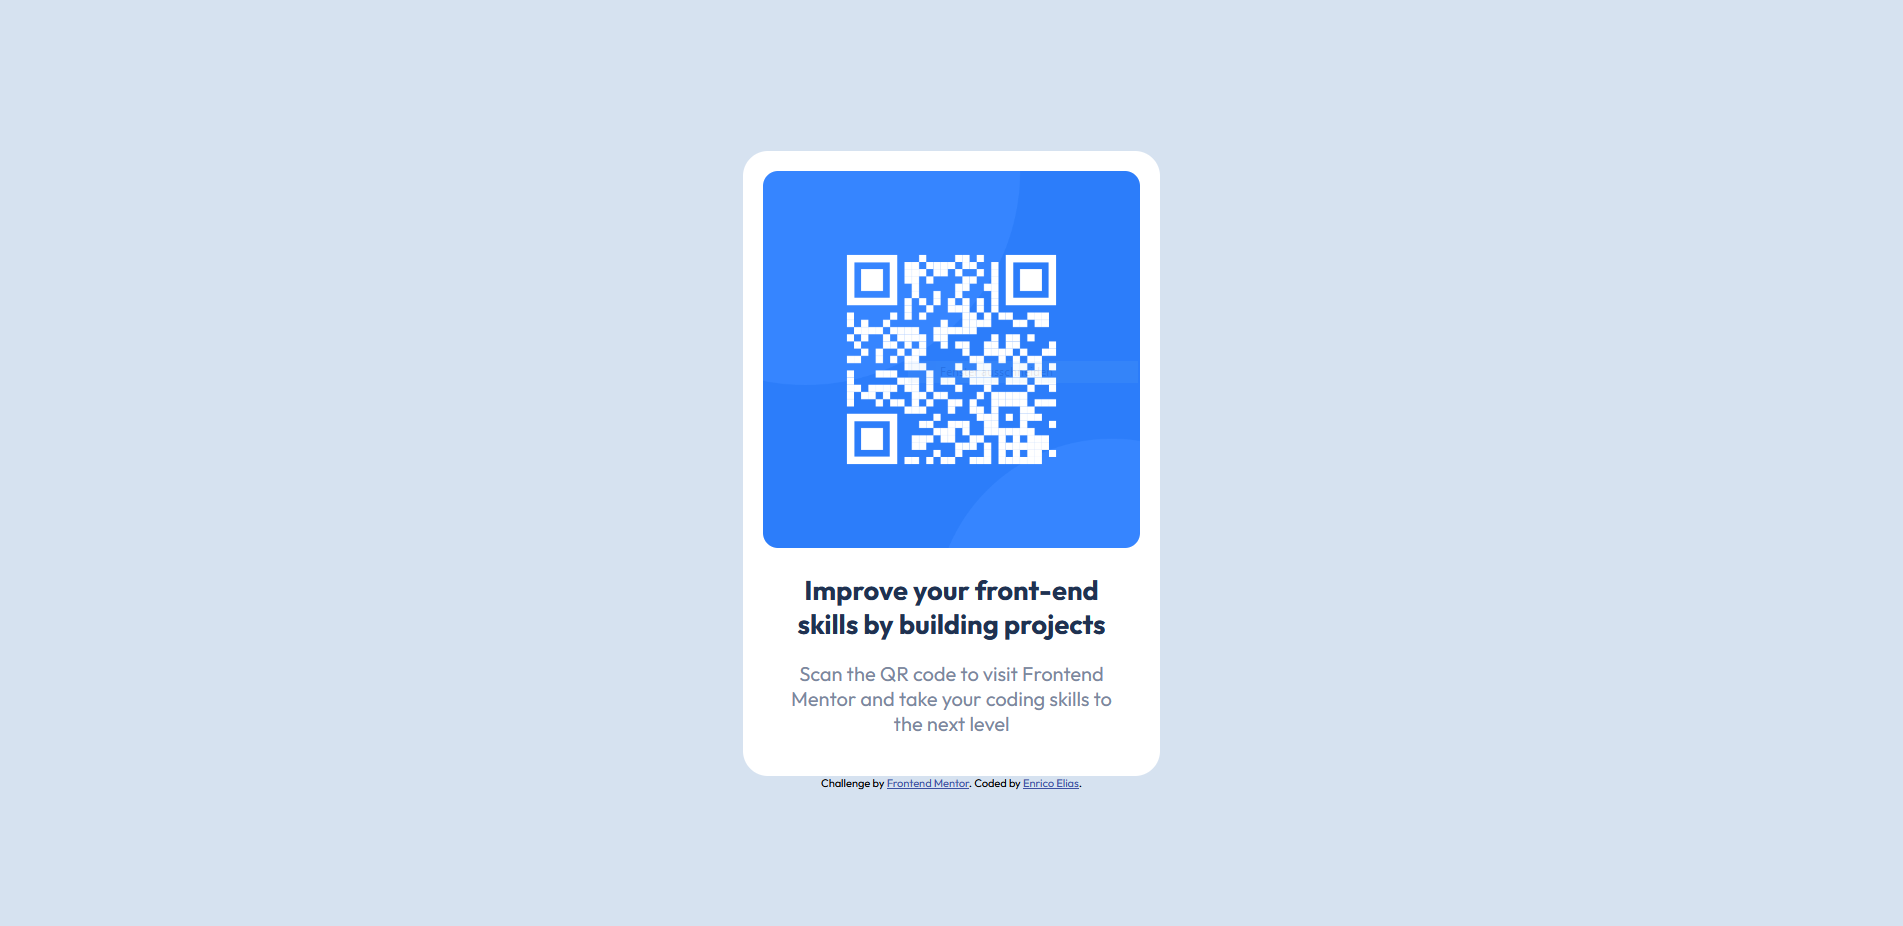
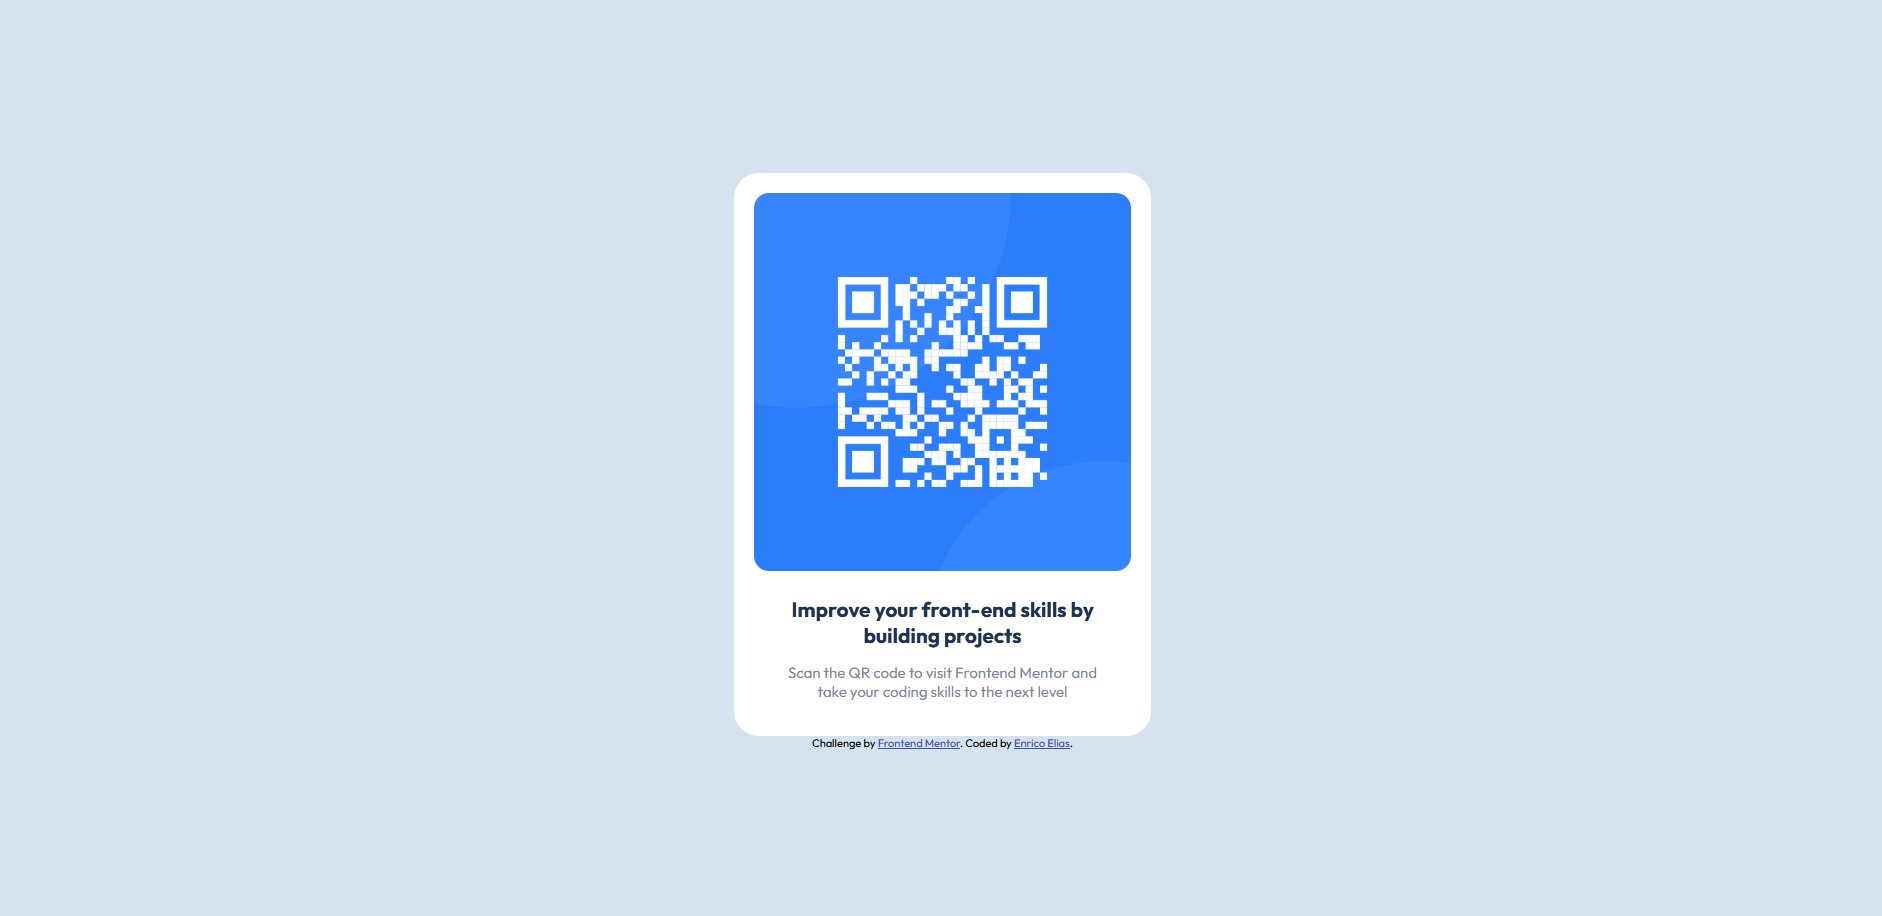
Fix style from body and main and update screenshots

Changed region(s): [[0.3698, 0.1528, 0.6164, 0.8559], [0.4315, 0.2751, 0.5547, 0.5502]]

diff --git a/style.css b/style.css
@@ -3,7 +3,7 @@ html {
     font-family: 'Outfit', sans-serif;
 }
 
-body {
+main {
     background-color: hsl(212, 45%, 89%);
     display: flex;
     flex-direction: column;
